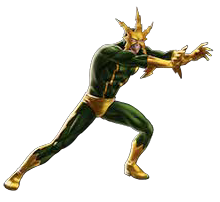
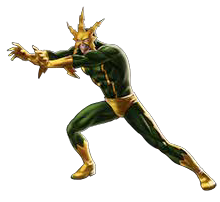
background added, assets edited to face towards left, updated speed variables and location logic in enemy controller

Changed region(s): [[0.0, 0.0297, 1.0, 0.9505]]

diff --git a/src/EnemyController.js b/src/EnemyController.js
@@ -21,20 +21,25 @@ class EnemyController {
             "assets/venom.png",
             "assets/carnage.png",
             "assets/octavius.png",
-            "assets/greenGoblin.png"
+            "assets/greenGoblin.png",
+            "assets/spiderVenomized.png"
         ];
+
+        this.counter = 0;
 
 
         window.setInterval(function() {
             // console.log(this.enemySpriteNameList.pop());
             // console.log(enemy);
 
-            this.enemy = new PIXI.Sprite(PIXI.Texture.fromImage(this.enemySpriteNameList.pop()));
-            this.enemy.anchor.set(0, 0);
-            this.enemy.position.set(renderer.width * 1.3, renderer.height * Math.random());
-            this.enemy.speed = 5;
+            this.enemy = new PIXI.Sprite(PIXI.Texture.fromImage(this.enemySpriteNameList[this.counter % this.enemySpriteNameList.length]));
+            this.counter++;
 
-            stage.addChildAt(this.enemy, 0);
+            this.enemy.anchor.set(0, 0);
+            this.enemy.position.set(renderer.width * 1.3, Math.abs(renderer.height * Math.random() - 200));
+            this.enemy.speed = 10;
+
+            stage.addChildAt(this.enemy, 1);
             this.enemyList.push(this.enemy);
 
         }.bind(this), 4000);

diff --git a/src/main.js b/src/main.js
@@ -22,7 +22,11 @@ PIXI.loader.add([
 ]).load(init);
 
 function init() {
-    renderer.backgroundImage =  "../bin/assets/bg-far.png";
+    var farTexture = PIXI.Texture.fromImage("assets/bg-far.png");
+    far = new PIXI.Sprite(farTexture);
+    far.position.x = 0;
+    far.position.y = 0;
+    stage.addChild(far);
 
     enemyController = new EnemyController();
     player = new Player();

diff --git a/bin/index.html b/bin/index.html
@@ -10,7 +10,6 @@
     <script src="../src/lib/pixi.min.js"></script>
     <script src="../src/main.js"></script>
     <script src="../src/Player.js"></script>
-    <!--<script src="../src/Enemy.js"></script>-->
     <script src="../src/EnemyController.js"></script>
     <script src="../src/WebProjectile.js"></script>
 
